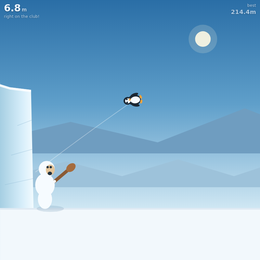
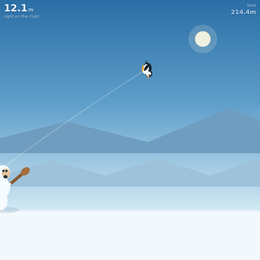
Draw the penguin in profile, flying and landing on its belly
The sprite was a front-facing penguin rotated about its centre, so it
read as a spinning shape rather than something flying somewhere. It is
now drawn side-on — beak, one eye, near flipper, feet trailing — and the
body angle means the direction the beak points, so every pose follows
from the physics: head-first down the ice wall, tumbling off the club,
then settling beak-forward along its own trajectory. The settle clamps at
0.42 rad nose-down, so the belly always reaches the snow before the beak
does, and on the ground the body eases flat.

Also fixes a real bug the belly landing made obvious: the snow, its
craters, the distance marks and the best-throw flag were drawn at a fixed
screen height while the world scrolled vertically with the camera, so the
penguin floated above the ice on every landing. They are anchored to the
world now, with the two mountain ridges rising at a fraction of that so
the horizon stays put.

Claude-Session: https://claude.ai/code/session_015q4Y7N5jKVyky97BpjUpnY

diff --git a/games/pingu_throw.html b/games/pingu_throw.html
@@ -193,7 +193,7 @@
     if (best > 0) el.best.textContent = best.toFixed(1) + 'm';
 
     function reset() {
-        p = {x: WALL_X, y: WALL_TOP, vx: 0, vy: 0, a: Math.PI / 2 + 0.22, av: 0};
+        p = {x: WALL_X, y: WALL_TOP, vx: 0, vy: 0, a: -Math.PI / 2, av: 0};
         club = {swung: false, t: 0, a: CLUB_REST};
         S = 'ready';
         camX = 0; camY = 0; zoom = 1.45; bounces = 0; contact = null; acc = 0; shake = 0;
@@ -333,15 +333,17 @@
     }
 
     function settle(dt) {
-        // the tumble dies down and the penguin lines up with its own flight path,
-        // which is why a hit skips rather than digs in
-        p.av *= Math.pow(0.25, dt);
+        // the tumble off the club dies down and the penguin lines itself up beak-forward,
+        // which is why it lands on its belly and skids rather than digging in
+        p.av *= Math.pow(0.22, dt);
         p.a += p.av * dt;
         const velA = Math.atan2(p.vy, p.vx);
-        let diff = velA - p.a;
+        // it never fully commits to a nose-dive: the belly meets the snow first
+        const target = Math.max(-0.42, Math.min(0.75, velA));
+        let diff = target - p.a;
         while (diff > Math.PI) diff -= 2 * Math.PI;
         while (diff < -Math.PI) diff += 2 * Math.PI;
-        p.a += diff * Math.min(1, 2.4 * dt);
+        p.a += diff * Math.min(1, 2.6 * dt);
     }
 
     function step(dt) {
@@ -351,7 +353,7 @@
         if (S === 'diving') {
             p.vy -= G_DIVE * dt;
             p.y += p.vy * dt;
-            p.a = Math.PI / 2 + 0.22;              // a clean head-first dive, no flailing
+            p.a = -Math.PI / 2 + 0.16;             // a clean head-first dive, no flailing
             if (p.y <= R_PENGU) {                  // never clubbed: it just lands
                 p.y = R_PENGU; p.vy = 0; p.vx = 0; S = 'ground';
                 noise(0.2, 0.18, 400);
@@ -376,6 +378,7 @@
             p.x += p.vx * dt;
             p.a += p.av * dt;
             p.av *= Math.pow(0.05, dt);
+            p.a += (0 - p.a) * Math.min(1, 4 * dt);     // flat on its belly in the snow
             el.dist.innerHTML = Math.max(0, p.x).toFixed(1) + '<small>m</small>';
             if (Math.abs(p.vx) < 0.05) finish();
         }
@@ -408,10 +411,10 @@
         ctx.beginPath(); ctx.arc(W * 0.78, H * 0.15, 44, 0, 7); ctx.fill();
     }
 
-    function drawRange(parY, scale, colour, seedStep, height) {  // parallax ridge
+    function drawRange(parY, scale, colour, seedStep, height, vScale) {  // parallax ridge
         ctx.fillStyle = colour;
         ctx.beginPath();
-        const base = groundY - parY;
+        const base = groundY - parY - camY * PPM * vScale;   // distant, so it rises less than the ice
         ctx.moveTo(-10, base + 40);
         const off = camX * scale;
         const start = Math.floor((off - 40) / seedStep) * seedStep;
@@ -426,25 +429,26 @@
     }
 
     function drawGround() {
+        const gy = sy(0);                     // the snow sits in the world, not on the screen
         ctx.fillStyle = '#f2f8fc';
-        ctx.fillRect(0, groundY, W, H - groundY);
+        ctx.fillRect(0, gy, W, H - gy + 2);
         ctx.fillStyle = '#dfeaf3';
-        ctx.fillRect(0, groundY, W, 5);
+        ctx.fillRect(0, gy, W, 5);
         ctx.font = '600 11px system-ui, sans-serif';
         const first = Math.floor((camX - W * 0.28 / PPM) / 25) * 25;
         for (let m = first; m < camX + W / PPM; m += 25) {
             if (m <= 0) continue;
             const x = sx(m);
             ctx.fillStyle = 'rgba(78,116,148,.35)';
-            ctx.fillRect(x, groundY, 2, 14);
+            ctx.fillRect(x, gy, 2, 14);
             ctx.fillStyle = 'rgba(58,96,130,.55)';
-            ctx.fillText(m + 'm', x + 5, groundY + 22);
+            ctx.fillText(m + 'm', x + 5, gy + 22);
         }
         ctx.fillStyle = 'rgba(150,180,205,.45)';
         for (const m of landMark) {
             const x = sx(m);
             if (x < -30 || x > W + 30) continue;
-            ctx.beginPath(); ctx.ellipse(x, groundY + 2, 12, 4, 0, 0, 7); ctx.fill();
+            ctx.beginPath(); ctx.ellipse(x, gy + 2, 12, 4, 0, 0, 7); ctx.fill();
         }
     }
 
@@ -534,25 +538,44 @@
         const x = sx(p.x), y = sy(p.y);
         ctx.save();
         ctx.translate(x, y);
-        ctx.rotate(-p.a - Math.PI / 2);      // p.a points "down through the belly"
+        ctx.rotate(-p.a);                    // p.a is where the beak points
         const s = PPM / 8;
         ctx.scale(s, s);
-        ctx.fillStyle = '#1b2733';
-        ctx.beginPath(); ctx.ellipse(0, 0, 3.4, 4.2, 0, 0, 7); ctx.fill();
-        ctx.beginPath(); ctx.ellipse(0, -4.4, 2.5, 2.6, 0, 0, 7); ctx.fill();
-        ctx.fillStyle = '#f7fbff';
-        ctx.beginPath(); ctx.ellipse(0, 0.6, 2.2, 3.1, 0, 0, 7); ctx.fill();
-        ctx.beginPath(); ctx.ellipse(0, -4.2, 1.6, 1.8, 0, 0, 7); ctx.fill();
-        ctx.fillStyle = '#20313f';
-        ctx.beginPath(); ctx.arc(-1, -4.8, 0.55, 0, 7); ctx.fill();
-        ctx.beginPath(); ctx.arc(1, -4.8, 0.55, 0, 7); ctx.fill();
-        ctx.fillStyle = '#f2a33c';
-        ctx.beginPath(); ctx.moveTo(0, -3.6); ctx.lineTo(1.9, -2.7); ctx.lineTo(0, -2.2); ctx.closePath(); ctx.fill();
-        ctx.beginPath(); ctx.ellipse(-1.5, 4.3, 1.3, 0.7, 0.3, 0, 7); ctx.fill();
-        ctx.beginPath(); ctx.ellipse(1.5, 4.3, 1.3, 0.7, -0.3, 0, 7); ctx.fill();
-        ctx.fillStyle = '#1b2733';
-        ctx.beginPath(); ctx.ellipse(-3.3, 0.4, 1, 2.6, 0.25, 0, 7); ctx.fill();
-        ctx.beginPath(); ctx.ellipse(3.3, 0.4, 1, 2.6, -0.25, 0, 7); ctx.fill();
+
+        const DARK = '#1b2733', WHITE = '#f7fbff', BEAK = '#f2a33c';
+
+        ctx.fillStyle = DARK;
+        ctx.beginPath();                     // tail
+        ctx.moveTo(-3.4, 0.2); ctx.lineTo(-5.6, 1.5); ctx.lineTo(-3.2, 1.9);
+        ctx.closePath(); ctx.fill();
+
+        ctx.beginPath();                     // body, long axis along the beak
+        ctx.ellipse(0, 0, 4.1, 3.1, 0, 0, 7); ctx.fill();
+        ctx.beginPath();                     // head
+        ctx.ellipse(3.1, -1.9, 2.4, 2.3, 0, 0, 7); ctx.fill();
+
+        ctx.fillStyle = WHITE;               // belly and throat, one shape down the near side
+        ctx.beginPath();
+        ctx.ellipse(0.4, 0.9, 3.4, 2.1, 0, 0, 7); ctx.fill();
+        ctx.beginPath();
+        ctx.ellipse(3.3, -1.6, 1.7, 1.8, 0, 0, 7); ctx.fill();
+
+        ctx.fillStyle = BEAK;                // feet, tucked back along the belly
+        ctx.beginPath(); ctx.ellipse(-0.6, 2.9, 1.6, 0.6, -0.12, 0, 7); ctx.fill();
+        ctx.beginPath(); ctx.ellipse(1.1, 3.0, 1.6, 0.6, -0.12, 0, 7); ctx.fill();
+
+        ctx.beginPath();                     // beak
+        ctx.moveTo(4.6, -2.4); ctx.lineTo(7.0, -1.7); ctx.lineTo(4.6, -1.0);
+        ctx.closePath(); ctx.fill();
+
+        ctx.fillStyle = DARK;                // the one eye you can see in profile
+        ctx.beginPath(); ctx.arc(4.0, -2.5, 0.62, 0, 7); ctx.fill();
+        ctx.fillStyle = WHITE;
+        ctx.beginPath(); ctx.arc(4.2, -2.65, 0.2, 0, 7); ctx.fill();
+
+        ctx.fillStyle = '#121c25';           // near flipper, trailing behind
+        ctx.beginPath(); ctx.ellipse(-0.7, 0.6, 2.6, 0.95, 0.42, 0, 7); ctx.fill();
+
         ctx.restore();
     }
 
@@ -570,12 +593,12 @@
 
     function drawBestFlag() {
         if (best <= 0) return;
-        const x = sx(best);
+        const x = sx(best), gy = sy(0);
         if (x < -40 || x > W + 40) return;
         ctx.strokeStyle = 'rgba(40,80,115,.5)'; ctx.lineWidth = 2;
-        ctx.beginPath(); ctx.moveTo(x, groundY); ctx.lineTo(x, groundY - 34); ctx.stroke();
+        ctx.beginPath(); ctx.moveTo(x, gy); ctx.lineTo(x, gy - 34); ctx.stroke();
         ctx.fillStyle = '#ff6b6b';
-        ctx.beginPath(); ctx.moveTo(x, groundY - 34); ctx.lineTo(x + 20, groundY - 28); ctx.lineTo(x, groundY - 22); ctx.closePath(); ctx.fill();
+        ctx.beginPath(); ctx.moveTo(x, gy - 34); ctx.lineTo(x + 20, gy - 28); ctx.lineTo(x, gy - 22); ctx.closePath(); ctx.fill();
     }
 
     function render() {
@@ -592,8 +615,8 @@
         ctx.save();
         if (shake > 0) ctx.translate((Math.random() - 0.5) * shake * 7, (Math.random() - 0.5) * shake * 7);
         drawSky();
-        drawRange(H * 0.26, 0.10, '#6f9dc0', 14, H * 0.13);
-        drawRange(H * 0.13, 0.30, '#9dc2da', 9, H * 0.09);
+        drawRange(H * 0.26, 0.10, '#6f9dc0', 14, H * 0.13, 0.18);
+        drawRange(H * 0.13, 0.30, '#9dc2da', 9, H * 0.09, 0.42);
         drawGround();
         drawBestFlag();
         drawWall();
